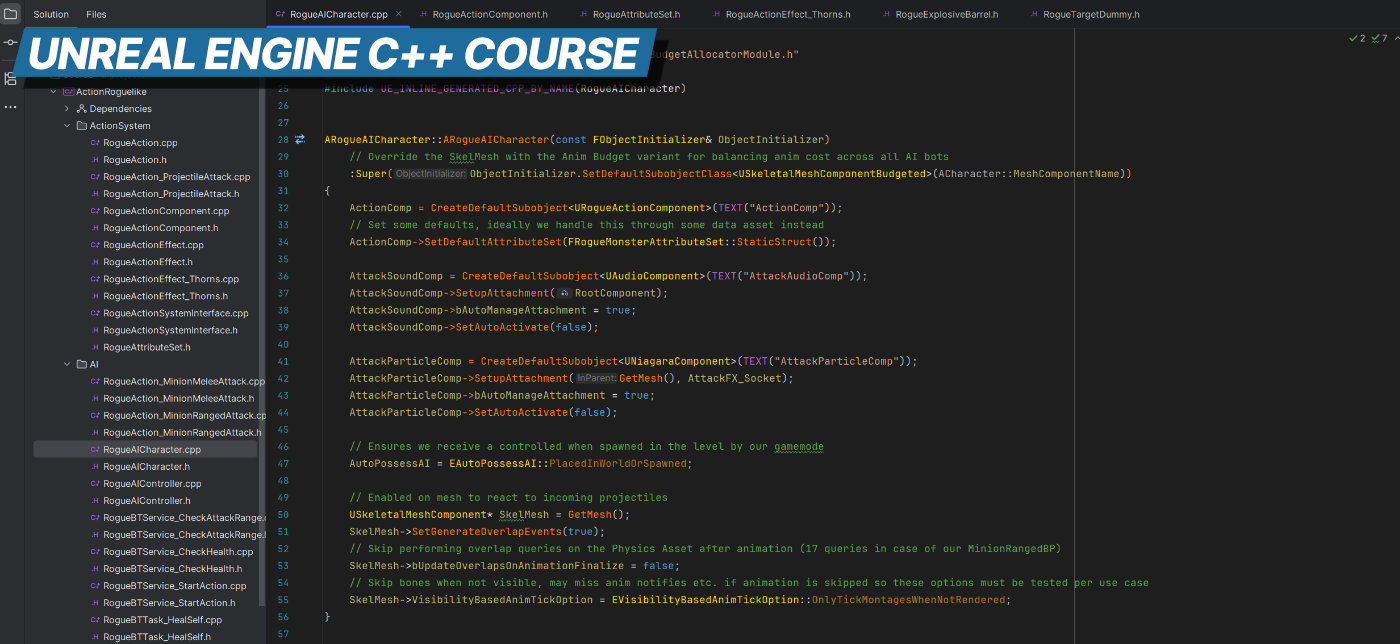
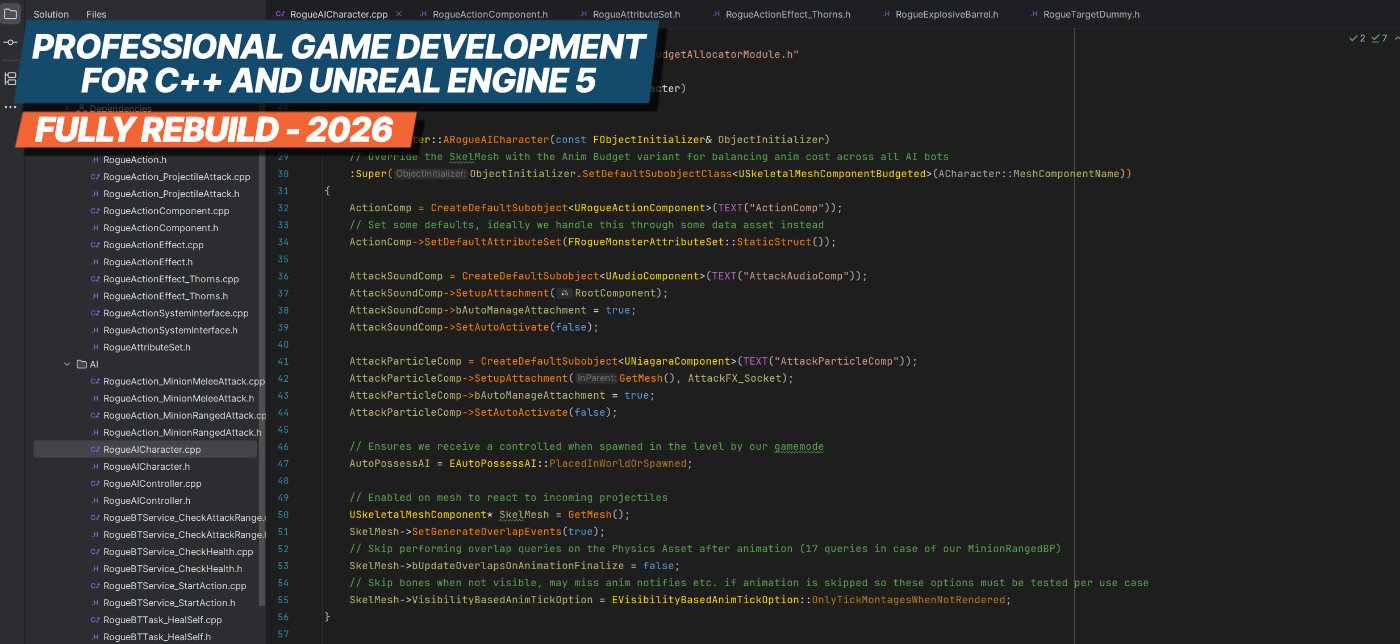
Upgraded homepage

Changed region(s): [[0.0, 0.0311, 0.4914, 0.2484]]

diff --git a/assets/css/main.scss b/assets/css/main.scss
@@ -530,3 +530,39 @@ div.highlighter-rouge, figure.highlight {
 .contact-form button[type="submit"]:hover {
   background-color: #e35f35;
 }
+
+/* Course Banner */
+
+#course-banner {
+  border: 1px solid rgba($color-blue, 0.5);
+}
+
+
+/* homepage call-out section */
+
+.intro-highlight {
+    position: relative;
+    margin: 20px 0 20px 0;
+    padding: 0px 40px 40px 40px;
+    background: $color-offwhite;
+    border: 1px solid rgba($color-blue, 0.5);
+    overflow: hidden;
+}
+
+.intro-highlight::before {
+    content: "";
+
+    position: absolute;
+    left: 0;
+    top: 0;
+    bottom: 0;
+    width: 6px;
+    background: $color-blue;
+}
+
+.intro-highlight p {
+    margin: 0;
+    font-size: 1.0em;
+    line-height: 1.7;
+    color: #3b3b3b;
+}
